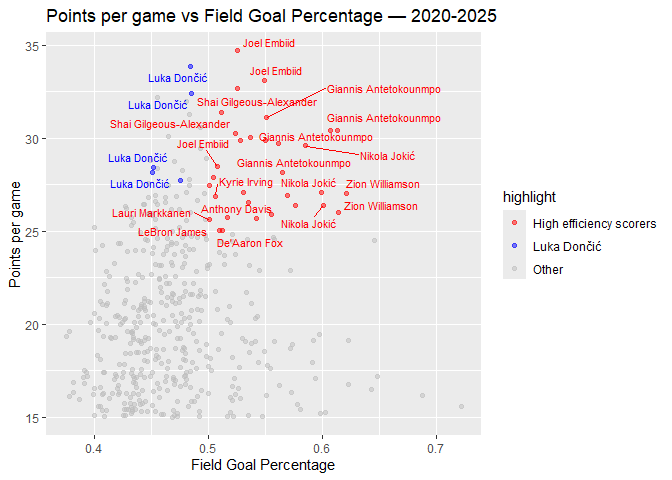
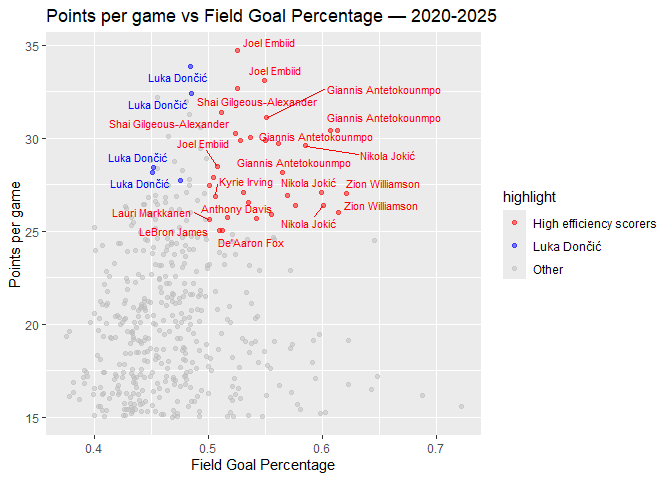
Added conclusion

diff --git a/README.md b/README.md
@@ -635,7 +635,7 @@ master_wide %>%
 
 ![](README_files/figure-gfm/unnamed-chunk-22-1.png)<!-- -->
 
-### BLAKE PLEASE EDIT THIS I THINK PUTTING LUKA HERE WOULD BE GREAT
+### Stars vs Avg vs The Don
 
 We define stars as players in the 90th percentile of scoring each
 season. The difference over time of the heights of the points would
@@ -674,7 +674,7 @@ superstar_vs_avg %>%
 
 ### How has Luka Doncic developed season to season?
 
-# he is extremely consistent despite being traded
+he is extremely consistent despite being traded
 
 ``` r
 ### goat switched teams, using TOT row only for 24-25 season
@@ -781,9 +781,34 @@ ggplot(all_stats, aes(x = SEASON, y = Value, group = Source, color = Source)) +
   labs(title = "Luka vs. League Average vs. MVPs", y = "Stat Value")
 ```
 
-![](README_files/figure-gfm/unnamed-chunk-25-1.png)<!-- --> \## Luka
-takes a lot of very difficult 3 point shots by himself to try and save
-the offense, this makes his FG_PCT appear weaker than it is. Otherwise,
-he is consistently playing at an MVP level and getting ROBBED
+![](README_files/figure-gfm/unnamed-chunk-25-1.png)<!-- --> Luka takes a
+lot of very difficult 3 point shots by himself to try and save the
+offense, this makes his FG_PCT appear weaker than it is. Otherwise, he
+is consistently playing at an MVP level and getting ROBBED
 
 ## Conclusion
+
+In conclusion, our analysis of the NBA as a whole and individuals has
+shown that just giving an eye test won’t answer all questions. Looking
+into the data had helped us all look at the NBA a bit different with
+more insight on trends. The reality of the NBA is that when comparing
+players, there really aren’t two of the same player, especially the ones
+near stardom. Comparing average players is a completely different game
+then comparing the best of the best.
+
+We found it super interesting that for the plus/minus comparisons, that
+nearly the entire starting roster for the Thunder was present. With Shai
+top right, and his teammates top left. Meaning that he did the heavy
+lifting in scoring and his team really didn’t get all that many chances
+around him.
+
+We also think it was a great idea to have a specific player be a
+baseline by himself, Luka Doncic. The stats tell a pretty good story,
+that mvp’s aren’t only stat reliant, players like himself honestly can’t
+really be compared to many others if any, and that he is maybe the most
+robbed player of all time.
+
+If we were to do any future research on the NBA, team statistics would
+be the way to go. We did a major focus on individual performances and
+neglected team activity. Which we don’t think is necessarily a good or
+bad decision, but was at least a good focus for the project.
